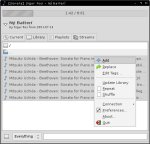
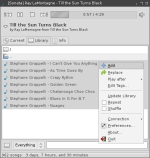
improve artwork searching for genre/artist library views; update website

diff --git a/website/changelog.html b/website/changelog.html
@@ -27,6 +27,35 @@
 
 		 <h2>Changelog</h2>
 		 
+		 	<p>April 3, 2008 (Version 1.5):<ul>
+			<li>Replace album view with genre view for library</li>
+			<li>Display covers for albums in artist/genre views</li>
+			<li>Add menu items and shortcuts for playing library items after add/replace</li>
+			<li>Allow setting artwork for streams</li>
+			<li>Optional stylized album art with cases (Aidan)</li>
+			<li>New, faster python mpd interface (jat)</li>
+			<li>--popup argument to popup song notification (requires D-Bus) (Oleg)</li>
+			<li>Show 'Untagged' artists/genres in their respective library views</li>
+			<li>Allow DND of cover art from a web browser (Артем)</li>
+			<li>Allow DND of music from a file manager into playlist (requires mpd 0.14)</li>
+			<li>Preserve column percentages for current tab across window resizing</li>
+			<li>Speed up mpd-related commandline arguments</li>
+			<li>Switch back to last tab on second cover art click</li>
+			<li>Retain selection in lists after removing items</li>
+			<li>Hidden config option to expand notebook tabs (tabs_expanded)</li>
+			<li>Set ServiceProxy cachedir for lyrics to work around ZSI bug</li>
+			<li>Add Estonian translation (Mihkel)</li>
+			<li>Bug: Fix multimedia keys for gnome 2.22</li>
+			<li>Bug: Fix artwork for artists/albums with "/" in them (e.g. AC/DC)</li>
+			<li>Bug: Fix egg trayicon with vertical system tray</li>
+			<li>Bug: Weird bug in library-view</li>
+			<li>Bug: Prevent failure to load if tab positions are saved as None</li>
+			<li>Bug: Fix non-ascii characters in files for non-utf8 filesystems (zap)</li>
+			<li>Bug: Prevent crash with certain locales like turkish (jat)</li>
+			<li>Bug: Using filter causes playlist to jump to the top</li>
+			<li>Bug: Fix AudioScrobblerQuery (kigurai)</li>
+			</ul>
+
 		 	<p>February 9, 2008 (Version 1.4.2):<ul>
 			<li>Add %D for disc tag in display formatting options</li>
 			<li>Better handling if no read permission (e.g. no/bad mpd password supplied)</li>

diff --git a/website/download.html b/website/download.html
@@ -27,7 +27,7 @@
 
 		 <h2>Download</h2>
 
-			<p>Sonata source code is available here:&nbsp;&nbsp;<a href="http://download.berlios.de/sonata/sonata-1.4.2.tar.gz">sonata-1.4.2.tar.gz</a>&nbsp;&nbsp;&nbsp;&nbsp;&nbsp;<a href="http://download.berlios.de/sonata/sonata-1.4.2.tar.bz2">sonata-1.4.2.tar.bz2</a><br/><br/>
+			<p>Sonata source code is available here:&nbsp;&nbsp;<a href="http://download.berlios.de/sonata/sonata-1.5.tar.gz">sonata-1.5.tar.gz</a>&nbsp;&nbsp;&nbsp;&nbsp;&nbsp;<a href="http://download.berlios.de/sonata/sonata-1.5.tar.bz2">sonata-1.5.tar.bz2</a><br/><br/>
 
 			&nbsp;&nbsp;&nbsp;&nbsp;&nbsp;Archlinux: pacman -S <a href="http://archlinux.org/packages/search/?q=sonata">sonata</a> (William Rea/James Rayner)<br/>
 			&nbsp;&nbsp;&nbsp;&nbsp;&nbsp;Crux: Pkgfile is <a href="http://borkware.net/crux/ports/sonata/">here</a> (Mark Rosenstand)<br/>
@@ -50,11 +50,12 @@
 
 			<p>PyGTK 2.6.0 or newer<br/>
 				GTK+ 2.6.0 or newer<br/>
+				python-mpd 0.2.0 or newer<br />
 				Python 2.5 or python-elementtree<br/>
 				MPD 0.12 or newer (optional)<br/>
 				gnome-python-extras or PyGTK 2.10.x for system tray support (optional)<br/>
 				taglib and tagpy for editing metadata (optional)<br/>
-				ZSI for lyrics support (optional)<br/>
+				ZSI 2.0 or newer for lyrics support (optional)<br/>
 				GCC (building only)<br/>
 				python-dev (on some distros; building only)
 

diff --git a/website/documentation.html b/website/documentation.html
@@ -65,8 +65,7 @@
 			given Sonata dependency is installed. For systemtray support, PyGTK 2.10 
 			or gnome-python-extras is required. For the ability to edit song tags, 
 			tagpy and taglib are required. For automatic fetching of song lyrics,
-			SOAPpy is required. For audioscrobbler support, Python 2.5 or
-			python-elementtree is required.</blockquote>
+			ZSI is required.</blockquote>
 			
 			<p><a name="faq_2">2</a>. How do I jump straight to certain tracks or search?
 			
@@ -84,7 +83,7 @@
 			<p><a name="faq_4">4</a>. How can I change the view of my library?
 			
 			<blockquote>By default, Sonata will present your music library in a Filesystem hierarchy
-			view. You can also choose to switch to Artist or Album views by clicking on the bottom-left
+			view. You can also choose to switch to Artist or Genre views by clicking on the bottom-left
 			icon that appears in the library tab.</blockquote>
 			
 			<p><a name="faq_5">5</a>. How does the cover art logic work?

diff --git a/website/screenshots.html b/website/screenshots.html
@@ -35,7 +35,7 @@
 						<td width="33%" align="right"><a href="images/sonata3.png"><img src="images/t_sonata3.jpg"></a><br/><i>Music library, searchbar.</i><br/><br/></td>
 					</tr>
 					<tr>
-						<td width="33%" align="right"><a href="images/sonata4.png"><img src="images/t_sonata4.jpg"></a><br/><i>Queue support.</i><br/><br/></td>
+						<td width="33%" align="right"><a href="images/sonata4.png"><img src="images/t_sonata4.jpg"></a><br/><i>Genre &amp; artist browsing.</i><br/><br/></td>
 						<td width="33%" align="right"><a href="images/sonata5.png"><img src="images/t_sonata5.jpg"></a><br/><i>Batch tag editing.</i><br/><br/></td>
 						<td width="33%" align="right"><a href="images/sonata6.png"><img src="images/t_sonata6.jpg"></a><br/><i>Alternative album art.</i><br/><br/></td>
 					</tr>

diff --git a/website/index.html b/website/index.html
@@ -32,7 +32,7 @@
 <div class="content">
 
 		 <h2>About</h2>
-		 <p>Sonata is an elegant GTK+ music client for the <a href="http://www.musicpd.org">Music Player Daemon (MPD)</a>.  The latest version is <a href="download.html">1.4.2</a>.</p>
+		 <p>Sonata is an elegant GTK+ music client for the <a href="http://www.musicpd.org">Music Player Daemon (MPD)</a>.  The latest version is <a href="download.html">1.5</a>.</p>
 		 <p>Sonata is licensed by the GPL and is <a href="http://www.gnu.org/philosophy/free-sw.html">free software</a>.  It has been forked from the unmaintained <a href="http://pygmy.berlios.de">Pygmy</a> project in order to fix bugs, introduce new features, and proceed down a different path.
 
 		 <h2>Features</h2>

diff --git a/sonata/main.py b/sonata/main.py
@@ -2395,16 +2395,18 @@ class Base:
                 songs = []
                 years = []
                 dirs = []
+                artists = []
                 for item in self.return_artist_items(self.lib_artist):
                     try:
                         albums.append(mpdh.get(item, 'album'))
                         years.append(mpdh.get(item, 'date', '9999').split('-')[0].zfill(4))
+                        artists.append(mpdh.get(item, 'artist'))
                     except:
                         songs.append(item)
                     dirs.append(os.path.dirname(mpdh.get(item, 'file')))
-                (albums, years, dirs) = misc.remove_list_duplicates(albums, years, dirs, False)
+                (albums, years, artists, dirs) = misc.remove_list_duplicates(albums, years, artists, dirs, False)
                 for i in range(len(albums)):
-                    coverfile = self.library_get_album_cover(dirs[i], self.lib_artist, albums[i])
+                    coverfile = self.library_get_album_cover(dirs[i], artists[i], albums[i])
                     if years[i] == '9999':
                         bd += [('d' + years[i] + misc.lower_no_the(albums[i]), [coverfile, years[i] + albums[i], misc.escape_html(albums[i])])]
                     else:
@@ -2455,7 +2457,7 @@ class Base:
         list = []
         for item in self.client.list('genre'):
             list.append(item)
-        (list, tmp, tmp2) = misc.remove_list_duplicates(list, case=False)
+        (list, tmp, tmp2, tmp3) = misc.remove_list_duplicates(list, case=False)
         list.sort(locale.strcoll)
         return list
 
@@ -2501,14 +2503,14 @@ class Base:
                             list.append(mpdh.get(item, 'artist'))
                         elif mpdh.get(item, 'genre') == self.NOTAG:
                             list.append(mpdh.get(item, 'artist'))
-            (list, tmp, tmp2) = misc.remove_list_duplicates(list, case=False)
+            (list, tmp, tmp2, tmp3) = misc.remove_list_duplicates(list, case=False)
             list.sort(locale.strcoll)
             return list
         else:
             list = []
             for item in self.client.list('artist'):
                 list.append(item)
-            (list, tmp, tmp2) = misc.remove_list_duplicates(list, case=False)
+            (list, tmp, tmp2, tmp3) = misc.remove_list_duplicates(list, case=False)
             list.sort(locale.strcoll)
             return list
 
@@ -2895,7 +2897,7 @@ class Base:
                                         albumtime = albumtime + int(mpdh.get(track, 'time'))
                                     except:
                                         pass
-                            (year, tmp, tmp2) = misc.remove_list_duplicates(year, case=False)
+                            (year, tmp, tmp2, tmp3) = misc.remove_list_duplicates(year, case=False)
                             artist = self.album_current_artist[1]
                             artist_use_link = False
                             if artist != _("Various Artists"):
@@ -3213,7 +3215,7 @@ class Base:
                 for item in self.return_genre_items(genre):
                     items.append(mpdh.get(item, 'file'))
         # Make sure we don't have any EXACT duplicates:
-        (items, tmp, tmp2) = misc.remove_list_duplicates(items, case=True)
+        (items, tmp, tmp2, tmp3) = misc.remove_list_duplicates(items, case=True)
         return items
 
     def on_add_item_play(self, widget):
@@ -4983,7 +4985,7 @@ class Base:
                     artists.append(mpdh.get(song, 'artist'))
                     if mpdh.get(self.songinfo, 'file') == mpdh.get(song, 'file'):
                         return_artist = mpdh.get(song, 'artist')
-        (artists, tmp, tmp2) = misc.remove_list_duplicates(artists, case=False)
+        (artists, tmp, tmp2, tmp3) = misc.remove_list_duplicates(artists, case=False)
         if len(artists) > 3:
             return_artist = _("Various Artists")
         self.album_current_artist = [self.songinfo, return_artist]

diff --git a/sonata/misc.py b/sonata/misc.py
@@ -89,16 +89,18 @@ def link_markup(s, enclose_in_parentheses, small, linkcolor):
     s = "<span color='" + color + "'>" + s + "</span>"
     return s
 
-def remove_list_duplicates(inputlist, inputlist2=[], inputlist3=[], case=True):
+def remove_list_duplicates(inputlist, inputlist2=[], inputlist3=[], inputlist4=[], case=True):
     # If inputlist2 is provided, keep it synced with inputlist.
     # Note that this is only implemented if case=False.
     # Also note that we do this manually instead of using list(set(x))
     # so that the inputlist order is preserved.
     sync2 = (len(inputlist2) > 0)
     sync3 = (len(inputlist3) > 0)
+    sync4 = (len(inputlist4) > 0)
     outputlist = []
     outputlist2 = []
     outputlist3 = []
+    outputlist4 = []
     for i in range(len(inputlist)):
         dup = False
         # Search outputlist from the end, since the inputlist is typically in
@@ -128,7 +130,9 @@ def remove_list_duplicates(inputlist, inputlist2=[], inputlist3=[], case=True):
                 outputlist2.append(inputlist2[i])
             if sync3:
                 outputlist3.append(inputlist3[i])
-    return (outputlist, outputlist2, outputlist3)
+            if sync4:
+                outputlist4.append(inputlist4[i])
+    return (outputlist, outputlist2, outputlist3, outputlist4)
 
 the_re = re.compile('^the ')
 def lower_no_the(s):
